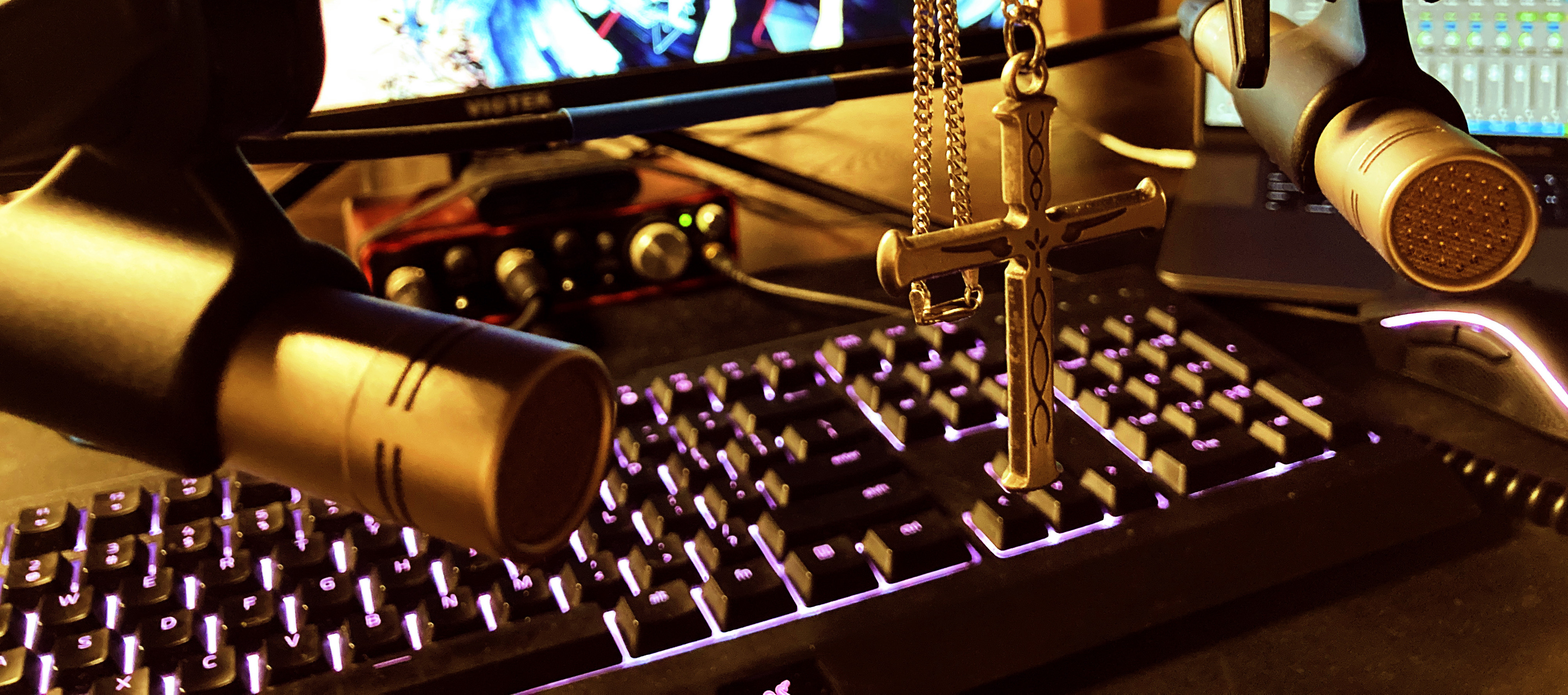
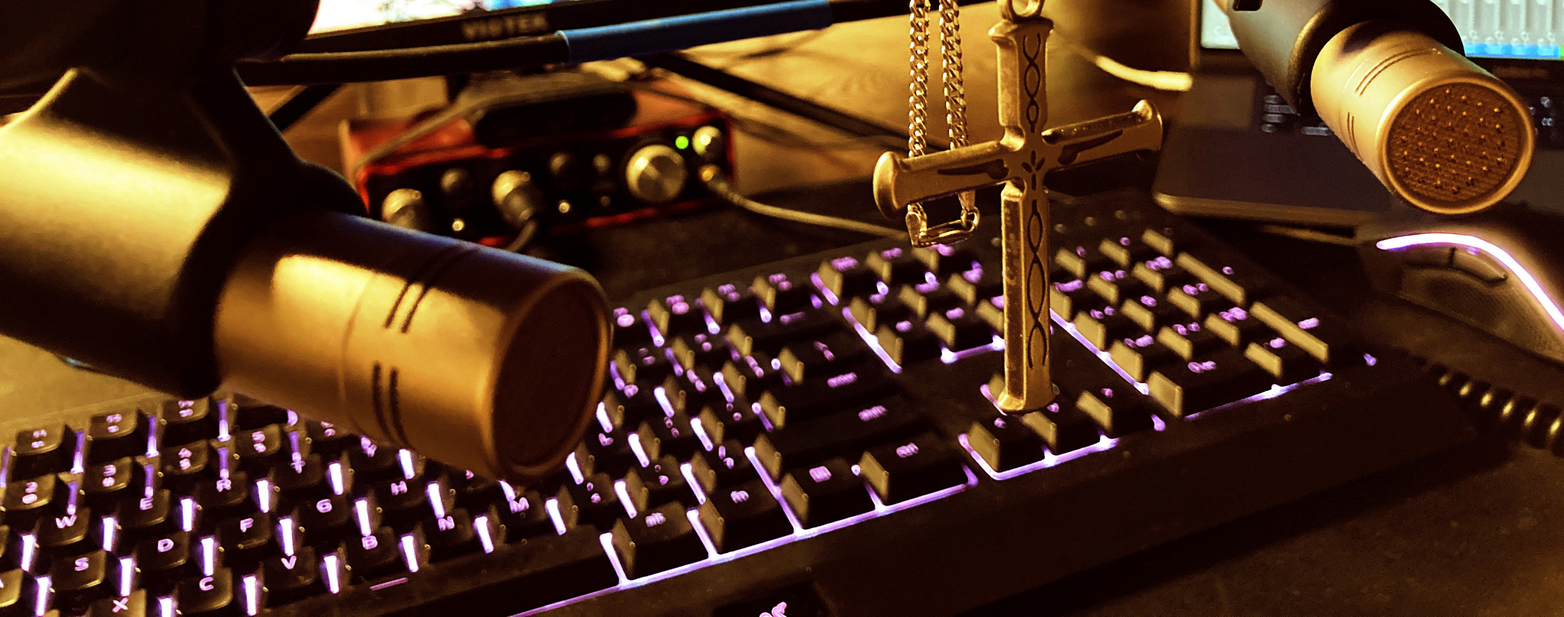
update about

diff --git a/docs/about/index.html b/docs/about/index.html
@@ -40,7 +40,7 @@
 <meta itemprop="name" content="About">
 <meta itemprop="description" content="Game - Music - Anime">
 
-<meta itemprop="wordCount" content="271">
+<meta itemprop="wordCount" content="259">
 <meta itemprop="keywords" content="" /><meta name="twitter:card" content="summary"/>
 <meta name="twitter:title" content="About"/>
 <meta name="twitter:description" content="Game - Music - Anime"/>
@@ -53,7 +53,7 @@
     
 
   
-  <header class="cover bg-top" style="background-image: url('https://gelzonexunsas.github.io/images/profile/212725.jpg');">
+  <header class="cover bg-top" style="background-image: url('https://gelzonexunsas.github.io/images/profile/IMG_9668.jpg');">
     <div class="bg-black-60">
       <nav class="pv3 ph3 ph4-ns" role="navigation">
   <div class="flex-l justify-between items-center center">
@@ -157,10 +157,12 @@
         </h1>
       </header>
       <div class="nested-copy-line-height lh-copy f4 nested-links mid-gray">
-        <p>My name is Lucas Li, but you may know me by my online name, Gelzone Unsas. I am a multi-faceted individual with a passion for programming, music production, and game development.</p>
-<p>As a programmer, I am constantly seeking new ways to improve my skills and knowledge. I am particularly interested in game development and the endless possibilities it offers. My undergraduate studies and senior project in Computer Science have provided me with a strong foundation in programming and software development. I am eager to work with my peers to explore new and innovative ways of creating games that push the boundaries of what is possible.</p>
-<p>In addition to my programming skills, I am also an accomplished music producer, with a focus on fingerstyle guitar. I have always been fascinated by the power of music to evoke emotions and create powerful experiences. I am always looking for ways to incorporate my passion for music into my work as a programmer. I am particularly interested in sound design and sound optimization in game development. I believe that these technologies have the potential to revolutionize the way that games are designed and played. By creating an immersive audio environment, we as game developers can create an emotional connection between the player and the game.</p>
-<p>As an anime lover, I have always been struck by the depth and creativity of the stories and characters that are found in anime. I believe that anime can be a powerful tool for creating compelling and meaningful games, and I am excited to explore the potential of anime as a source of inspiration for my work as a programmer.</p>
+        <p>Hello there! My name is <strong>Lucas Li</strong>, also known as <strong>Gelzone Unsas</strong> in the online world. I am a multi-talented individual who is passionate about programming, game development in particular, and music production.</p>
+<p><img src="/images/profile/IMG_2316.jpg" alt=""></p>
+<p><a href="https://github.com/GelzoneXUnsas">Programming</a> is my main area of expertise, and I am always on the lookout for new ways to improve my skills and knowledge. Game development is a particular interest of mine, as it offers endless possibilities to create innovative and immersive experiences. My undergraduate and master studies in Computer Science have provided me with a strong foundation in programming and software development, and I am excited to collaborate with peers to push the boundaries of what is possible in game development.</p>
+<p>Aside from programming, I am also an accomplished <a href="https://www.youtube.com/channel/UCs_AJP0KDnVPcPugtp6k37Q">music producer</a>, with a focus on fingerstyle guitar. I am fascinated by the emotional power of music and strive to incorporate my passion for music into my programming work. Sound design and optimization in game development are particularly interesting to me, as they can enhance the immersive experience for players and create a deeper emotional connection between the player and the game.</p>
+<p>As an avid anime lover, I am inspired by the depth and creativity of the stories and characters found in anime. I believe that anime can be a powerful source of inspiration for creating meaningful and engaging games, and I am excited to explore the potential of anime in my programming work.</p>
+<p>Thank you for taking the time to read about me and my interests. Please feel free to reach out and connect with me!</p>
 
       </div>
     </article>

diff --git a/docs/contact/index.html b/docs/contact/index.html
@@ -6,7 +6,7 @@
     
     <title>Contact | Gelzone Unsas</title>
     <meta name="viewport" content="width=device-width,minimum-scale=1">
-    <meta name="description" content="We&#39;d love to hear from you">
+    <meta name="description" content="I&#39;d love to hear from you">
     <meta name="generator" content="Hugo 0.110.0">
     
     
@@ -32,18 +32,18 @@
     
     
     <meta property="og:title" content="Contact" />
-<meta property="og:description" content="We&#39;d love to hear from you" />
+<meta property="og:description" content="I&#39;d love to hear from you" />
 <meta property="og:type" content="article" />
 <meta property="og:url" content="https://gelzonexunsas.github.io/contact/" /><meta property="article:section" content="" />
 
 
 <meta itemprop="name" content="Contact">
-<meta itemprop="description" content="We&#39;d love to hear from you">
+<meta itemprop="description" content="I&#39;d love to hear from you">
 
 <meta itemprop="wordCount" content="85">
 <meta itemprop="keywords" content="" /><meta name="twitter:card" content="summary"/>
 <meta name="twitter:title" content="Contact"/>
-<meta name="twitter:description" content="We&#39;d love to hear from you"/>
+<meta name="twitter:description" content="I&#39;d love to hear from you"/>
 
 	
   </head>

diff --git a/docs/index.html b/docs/index.html
@@ -53,7 +53,7 @@
     
 
   
-  <header class="cover bg-top" style="background-image: url('https://gelzonexunsas.github.io/images/profile/IMG_2316.jpg');">
+  <header class="cover bg-top" style="background-image: url('https://gelzonexunsas.github.io/images/profile/IMG_2323_copy.jpg');">
     <script src="https://kit.fontawesome.com/8ce8372e2e.js" crossorigin="anonymous"></script>
     <div class="bg-black-60">
       <nav class="pv3 ph3 ph4-ns" role="navigation">

diff --git a/docs/posts/index.html b/docs/posts/index.html
@@ -53,7 +53,7 @@
     
 
   
-  <header class="cover bg-top" style="background-image: url('https://gelzonexunsas.github.io/images/profile/IMG_2316.jpg');">
+  <header class="cover bg-top" style="background-image: url('https://gelzonexunsas.github.io/images/profile/IMG_2323_copy.jpg');">
     <script src="https://kit.fontawesome.com/8ce8372e2e.js" crossorigin="anonymous"></script>
     <div class="bg-black-60">
       <nav class="pv3 ph3 ph4-ns" role="navigation">

diff --git a/docs/posts/page/2/index.html b/docs/posts/page/2/index.html
@@ -53,7 +53,7 @@
     
 
   
-  <header class="cover bg-top" style="background-image: url('https://gelzonexunsas.github.io/images/profile/IMG_2316.jpg');">
+  <header class="cover bg-top" style="background-image: url('https://gelzonexunsas.github.io/images/profile/IMG_2323_copy.jpg');">
     <script src="https://kit.fontawesome.com/8ce8372e2e.js" crossorigin="anonymous"></script>
     <div class="bg-black-60">
       <nav class="pv3 ph3 ph4-ns" role="navigation">

diff --git a/docs/posts/page/3/index.html b/docs/posts/page/3/index.html
@@ -53,7 +53,7 @@
     
 
   
-  <header class="cover bg-top" style="background-image: url('https://gelzonexunsas.github.io/images/profile/IMG_2316.jpg');">
+  <header class="cover bg-top" style="background-image: url('https://gelzonexunsas.github.io/images/profile/IMG_2323_copy.jpg');">
     <script src="https://kit.fontawesome.com/8ce8372e2e.js" crossorigin="anonymous"></script>
     <div class="bg-black-60">
       <nav class="pv3 ph3 ph4-ns" role="navigation">

diff --git a/docs/tags/featured/index.html b/docs/tags/featured/index.html
@@ -53,7 +53,7 @@
     
 
   
-  <header class="cover bg-top" style="background-image: url('https://gelzonexunsas.github.io/images/profile/IMG_2316.jpg');">
+  <header class="cover bg-top" style="background-image: url('https://gelzonexunsas.github.io/images/profile/IMG_2323_copy.jpg');">
     <script src="https://kit.fontawesome.com/8ce8372e2e.js" crossorigin="anonymous"></script>
     <div class="bg-black-60">
       <nav class="pv3 ph3 ph4-ns" role="navigation">

diff --git a/docs/tags/games/index.html b/docs/tags/games/index.html
@@ -53,7 +53,7 @@
     
 
   
-  <header class="cover bg-top" style="background-image: url('https://gelzonexunsas.github.io/images/profile/IMG_2316.jpg');">
+  <header class="cover bg-top" style="background-image: url('https://gelzonexunsas.github.io/images/profile/IMG_2323_copy.jpg');">
     <script src="https://kit.fontawesome.com/8ce8372e2e.js" crossorigin="anonymous"></script>
     <div class="bg-black-60">
       <nav class="pv3 ph3 ph4-ns" role="navigation">

diff --git a/docs/tags/index.html b/docs/tags/index.html
@@ -53,7 +53,7 @@
     
 
   
-  <header class="cover bg-top" style="background-image: url('https://gelzonexunsas.github.io/images/profile/IMG_2316.jpg');">
+  <header class="cover bg-top" style="background-image: url('https://gelzonexunsas.github.io/images/profile/IMG_2323_copy.jpg');">
     <script src="https://kit.fontawesome.com/8ce8372e2e.js" crossorigin="anonymous"></script>
     <div class="bg-black-60">
       <nav class="pv3 ph3 ph4-ns" role="navigation">

diff --git a/docs/tags/music/index.html b/docs/tags/music/index.html
@@ -53,7 +53,7 @@
     
 
   
-  <header class="cover bg-top" style="background-image: url('https://gelzonexunsas.github.io/images/profile/IMG_2316.jpg');">
+  <header class="cover bg-top" style="background-image: url('https://gelzonexunsas.github.io/images/profile/IMG_2323_copy.jpg');">
     <script src="https://kit.fontawesome.com/8ce8372e2e.js" crossorigin="anonymous"></script>
     <div class="bg-black-60">
       <nav class="pv3 ph3 ph4-ns" role="navigation">

diff --git a/docs/tags/projects/index.html b/docs/tags/projects/index.html
@@ -53,7 +53,7 @@
     
 
   
-  <header class="cover bg-top" style="background-image: url('https://gelzonexunsas.github.io/images/profile/IMG_2316.jpg');">
+  <header class="cover bg-top" style="background-image: url('https://gelzonexunsas.github.io/images/profile/IMG_2323_copy.jpg');">
     <script src="https://kit.fontawesome.com/8ce8372e2e.js" crossorigin="anonymous"></script>
     <div class="bg-black-60">
       <nav class="pv3 ph3 ph4-ns" role="navigation">

diff --git a/content/about/index.md b/content/about/index.md
@@ -1,14 +1,18 @@
 ---
 title: "About"
 description: "Game - Music - Anime"
-featured_image: '/images/profile/212725.jpg'
+featured_image: '/images/profile/IMG_9668.jpg'
 ---
 
-My name is Lucas Li, but you may know me by my online name, Gelzone Unsas. I am a multi-faceted individual with a passion for programming, music production, and game development.
+Hello there! My name is **Lucas Li**, also known as **Gelzone Unsas** in the online world. I am a multi-talented individual who is passionate about programming, game development in particular, and music production.
 
-As a programmer, I am constantly seeking new ways to improve my skills and knowledge. I am particularly interested in game development and the endless possibilities it offers. My undergraduate studies and senior project in Computer Science have provided me with a strong foundation in programming and software development. I am eager to work with my peers to explore new and innovative ways of creating games that push the boundaries of what is possible.
+![](/images/profile/IMG_2316.jpg)
 
-In addition to my programming skills, I am also an accomplished music producer, with a focus on fingerstyle guitar. I have always been fascinated by the power of music to evoke emotions and create powerful experiences. I am always looking for ways to incorporate my passion for music into my work as a programmer. I am particularly interested in sound design and sound optimization in game development. I believe that these technologies have the potential to revolutionize the way that games are designed and played. By creating an immersive audio environment, we as game developers can create an emotional connection between the player and the game.
+[Programming](https://github.com/GelzoneXUnsas) is my main area of expertise, and I am always on the lookout for new ways to improve my skills and knowledge. Game development is a particular interest of mine, as it offers endless possibilities to create innovative and immersive experiences. My undergraduate and master studies in Computer Science have provided me with a strong foundation in programming and software development, and I am excited to collaborate with peers to push the boundaries of what is possible in game development.
 
-As an anime lover, I have always been struck by the depth and creativity of the stories and characters that are found in anime. I believe that anime can be a powerful tool for creating compelling and meaningful games, and I am excited to explore the potential of anime as a source of inspiration for my work as a programmer.
+Aside from programming, I am also an accomplished [music producer](https://www.youtube.com/channel/UCs_AJP0KDnVPcPugtp6k37Q), with a focus on fingerstyle guitar. I am fascinated by the emotional power of music and strive to incorporate my passion for music into my programming work. Sound design and optimization in game development are particularly interesting to me, as they can enhance the immersive experience for players and create a deeper emotional connection between the player and the game.
+
+As an avid anime lover, I am inspired by the depth and creativity of the stories and characters found in anime. I believe that anime can be a powerful source of inspiration for creating meaningful and engaging games, and I am excited to explore the potential of anime in my programming work.
+
+Thank you for taking the time to read about me and my interests. Please feel free to reach out and connect with me!
 
